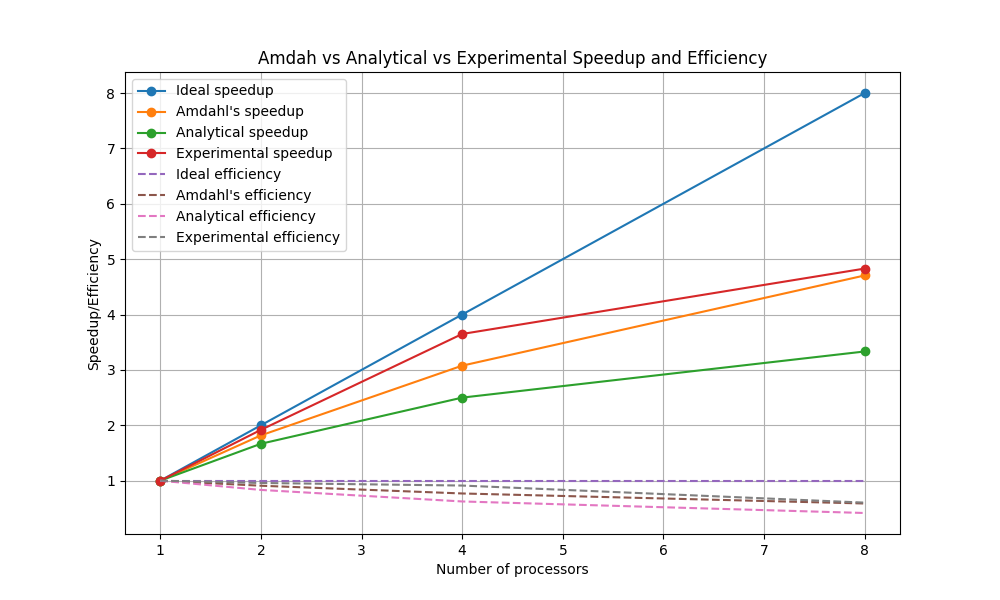
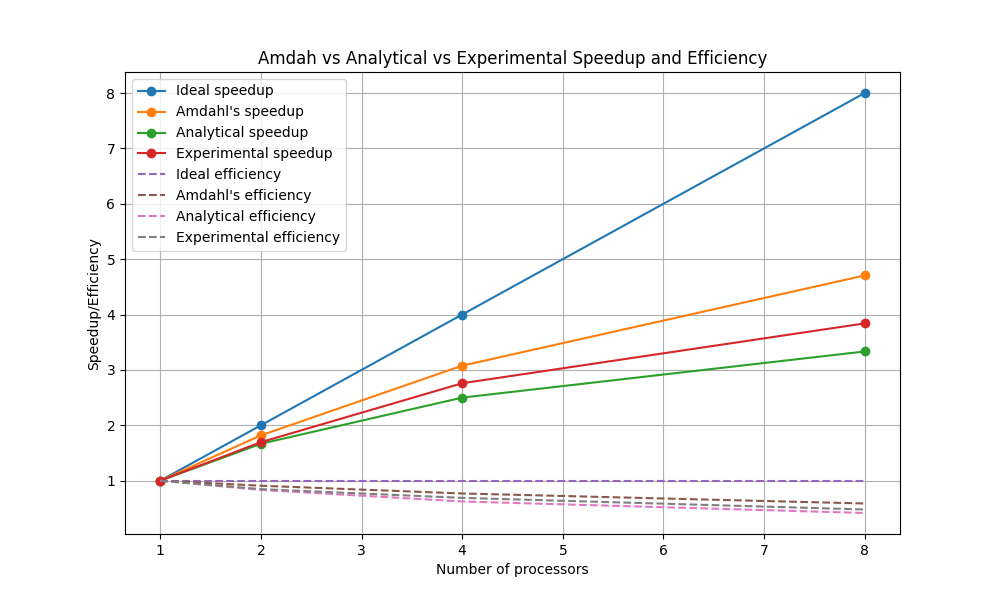
feat: readme

diff --git a/analysis.py b/analysis.py
@@ -53,7 +53,7 @@ S = 0.1  # Fraction of serial code
 alpha = 0.1  # Communication overhead
 
 # Runtime with 1, 2, 4, 8 processors (example values)
-runtimes = [0.172563, 0.089987, 0.047290, 0.035725]
+runtimes = [0.152563, 0.089987, 0.055290, 0.039725]
 
 # Plot the graph
 plot_graph(N, S, alpha, runtimes)

diff --git a/README.md b/README.md
@@ -6,6 +6,11 @@ Use C language with MPI and OpenMP Library to build a parallel quick sort.
 
 Analyze performance of your parallel application, using Amdahl’s model and analytical model.
 
+- **Amdahl's Law:** This model considers a fixed fraction (S) of the code as inherently serial (cannot be parallelized). The remaining fraction (1 - S) is assumed to be perfectly parallelizable. It provides an upper bound on the achievable speedup with the following formula:
+  `Speedup = 1 / (S + (1 - S) / N)`
+- **Analytical Model:** This model introduces an additional parameter, alpha (α), representing the communication overhead between processors. This overhead increases with the number of processors, impacting the overall speedup. The analytical model uses the following formula:
+  `Speedup = 1 / (S + (1 - S) / N + α * (N - 1) / N)`
+
 ## Graphs
 
 ![Screenshot](Figure.png)
@@ -23,3 +28,11 @@ Detail and draw diagram for computer system architecture of the experiment.
   - 256GB
 - Operating System
   - MacOS Sonoma 14.3.1 (23D60)
+
+## Conclusion:
+
+- Amdahl's Law offers a simple and quick estimate of the theoretical upper bound on speedup due to parallelization.
+- While useful for initial assessments, Amdahl's Law might be overly optimistic due to its idealized assumptions.
+- The analytical model provides a more realistic picture by incorporating communication overhead, resulting in a closer prediction of actual performance compared to Amdahl's Law.
+- Experimental measurements remain the most accurate way to assess the actual performance improvement of a parallelized program.
+- Choosing the most appropriate model depends on the desired level of accuracy and the resources available. Amdahl's Law provides a quick and easy estimate, while the analytical model offers a more realistic prediction with additional complexity. However, the most accurate picture comes from actual experimentation.
